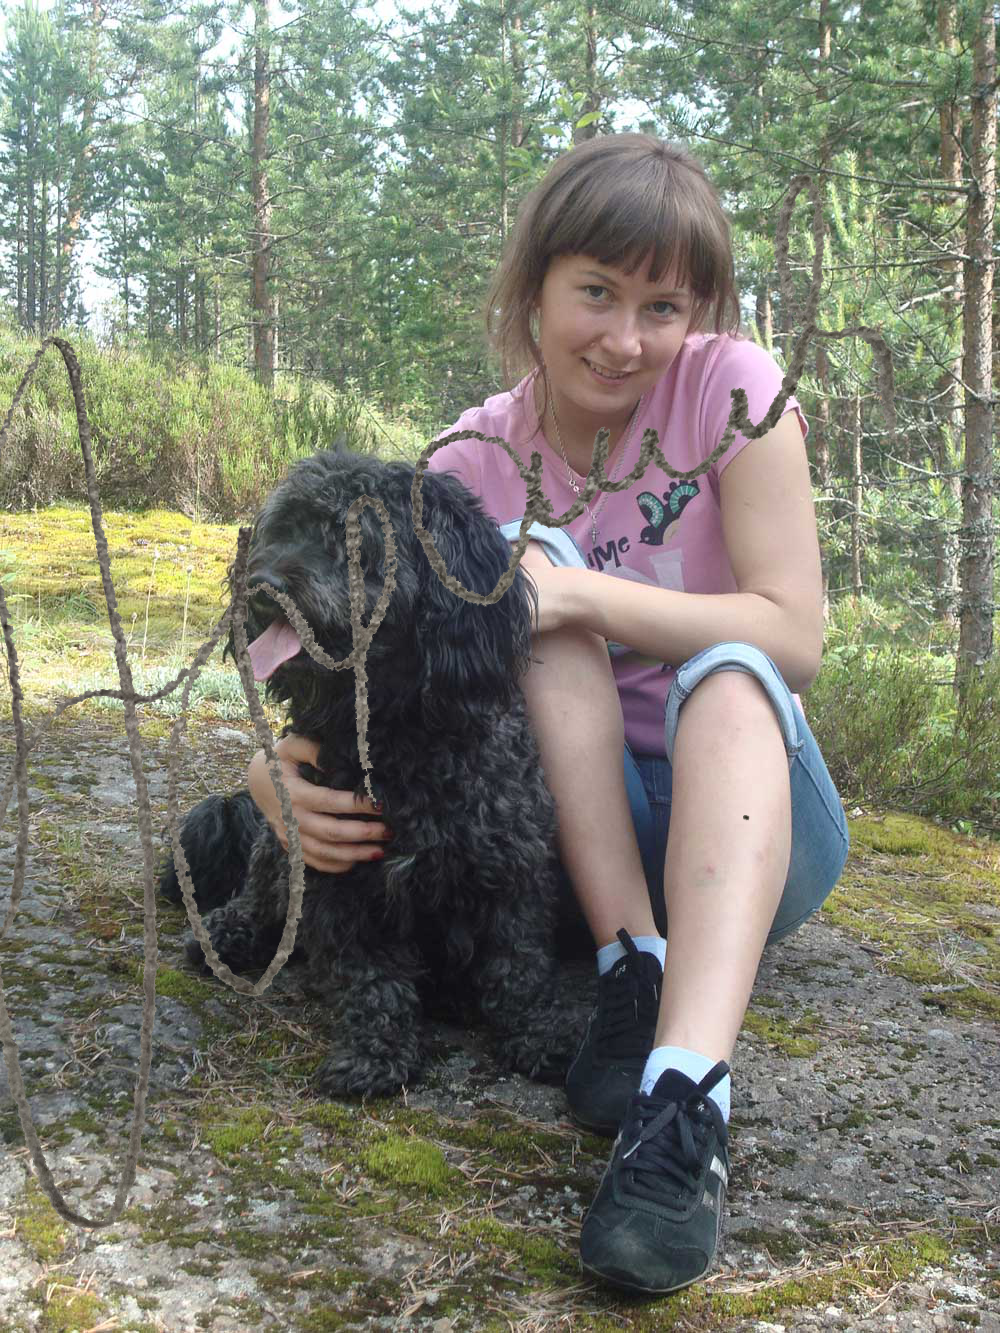
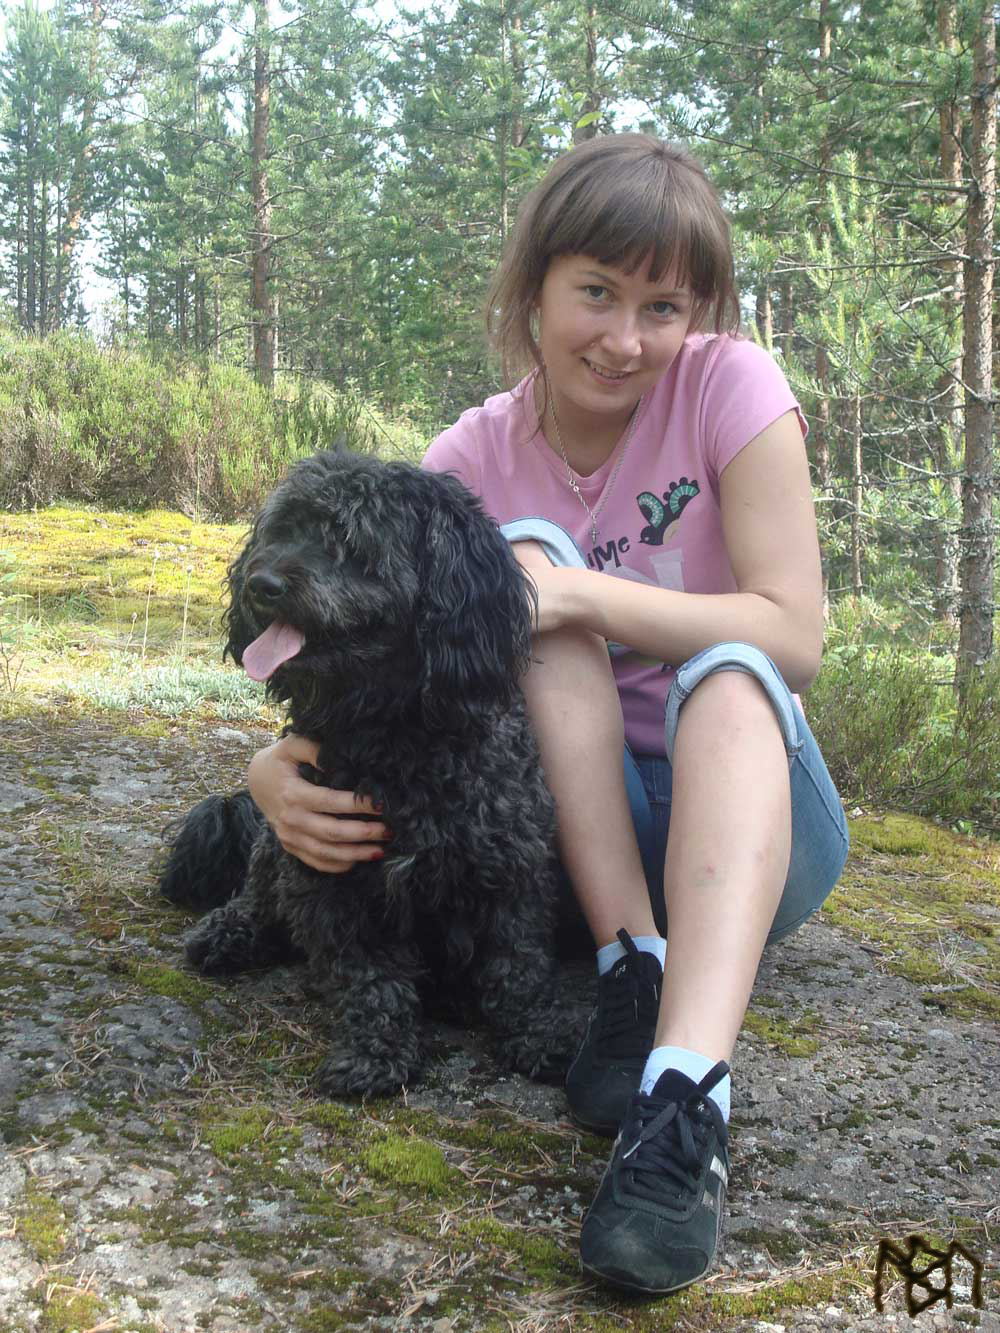
Включена функция подписания фотографии

diff --git a/www/Pages/SignaPhoto/Subscribe.php b/www/Pages/SignaPhoto/Subscribe.php
@@ -1,0 +1,58 @@
+<?php
+// PHP7/HTML5, EDGE/CHROME                                *** Subscribe.php ***
+
+// ****************************************************************************
+// * SignaPhoto                                Наложить подпись на фотографию *
+// ****************************************************************************
+
+//                                                   Автор:       Труфанов В.Е.
+//                                                   Дата создания:  01.06.2021
+// Copyright © 2021 tve                              Посл.изменение: 26.06.2021
+
+// Инициируем рабочее пространство страницы
+require_once $_SERVER['DOCUMENT_ROOT'].'/iniWorkSpace.php';
+$_WORKSPACE=iniWorkSpace();
+$SiteRoot   = $_WORKSPACE[wsSiteRoot];    // Корневой каталог сайта
+$SiteAbove  = $_WORKSPACE[wsSiteAbove];   // Надсайтовый каталог
+$SiteHost   = $_WORKSPACE[wsSiteHost];    // Каталог хостинга
+$SiteDevice = $_WORKSPACE[wsSiteDevice];  // 'Computer' | 'Mobile' | 'Tablet'
+// Подключаем сайт сбора сообщений об ошибках/исключениях и формирования 
+// страницы с выводом сообщений, а также комментариев для PHP5-PHP7
+require_once $SiteHost."/TDoorTryer/DoorTryerPage.php";
+try 
+{
+   // Подключаем файлы библиотеки прикладных модулей:
+   $TPhpPrown=$SiteHost.'/TPhpPrown';
+   require_once $TPhpPrown."/TPhpPrown/CommonPrown.php";
+   require_once $TPhpPrown."/TPhpPrown/MakeCookie.php";
+   require_once $TPhpPrown."/TPhpPrown/ViewGlobal.php";
+   // Подключаем модули страницы "Подписать фотографию"
+   require_once 'SignaPhotoHtml.php';
+   
+   
+   echo '
+      <!DOCTYPE HTML>
+      <html>
+      <head>
+      <meta charset="utf-8">
+      <meta name="robots" content="noindex"/>
+      <title>Подписать</title>
+      </head>
+      <body>
+   ';
+   echo "Subscribe!";
+   MakeStamp();
+   echo '
+      </body>
+      </html>
+   ';
+   
+   // Перезагружакм 2 страницу
+   //$page='/Pages/SignaPhoto/SignaPhotoPortrait.php#page2';
+   //Header("Location: http://".$_SERVER['HTTP_HOST'].$page);
+}
+catch (E_EXCEPTION $e) 
+{
+   DoorTryPage($e);
+}
+// ********************************************************** Subscribe.php ***

diff --git a/www/Pages/SignaPhoto/SignaPhotoHtml.php b/www/Pages/SignaPhoto/SignaPhotoHtml.php
@@ -88,6 +88,29 @@ function markupMobileSite($c_SignaPhoto,$UrlHome,$SiteRoot,$c_FileImg,$c_FileSta
 }
 
 
+function MakeStamp()
+{
+   // Загрузка штампа и фото, для которого применяется водяной знак (называется штамп или печать)
+   $stamp = imagecreatefrompng('images/stamp.png');
+   $im = imagecreatefromjpeg('images/photo.jpg');
+   // Установка полей для штампа и получение высоты/ширины штампа
+   $marge_right = 10;
+   $marge_bottom = 10;
+   $sx = imagesx($stamp);
+   $sy = imagesy($stamp);
+   // Копирование изображения штампа на фотографию с помощью смещения края
+   // и ширины фотографии для расчёта позиционирования штампа.
+   imagecopy($im,$stamp,imagesx($im)-$sx-$marge_right,imagesy($im)-$sy-$marge_bottom,0,0,imagesx($stamp),imagesy($stamp));
+   // Вывод и освобождение памяти
+   //header('Content-type: image/png');
+   imagepng($im, 'images/proba.png');
+   imagedestroy($im);
+      /*
+
+   */
+   echo '<br>Сделано!<br>';
+}
+
 
 
 // ****************************************************************************
@@ -274,7 +297,7 @@ function Subscribe()
 { 
    echo '
       <div id="btnSubscribe" class="navButtons" title="Загрузка файла">
-         <a  href="Subscribe.html">
+         <a  href="Subscribe.php">
          <img src="buttons/subscribe128.png"   width=100% height=100%/></img>
          </a>
      </div>
